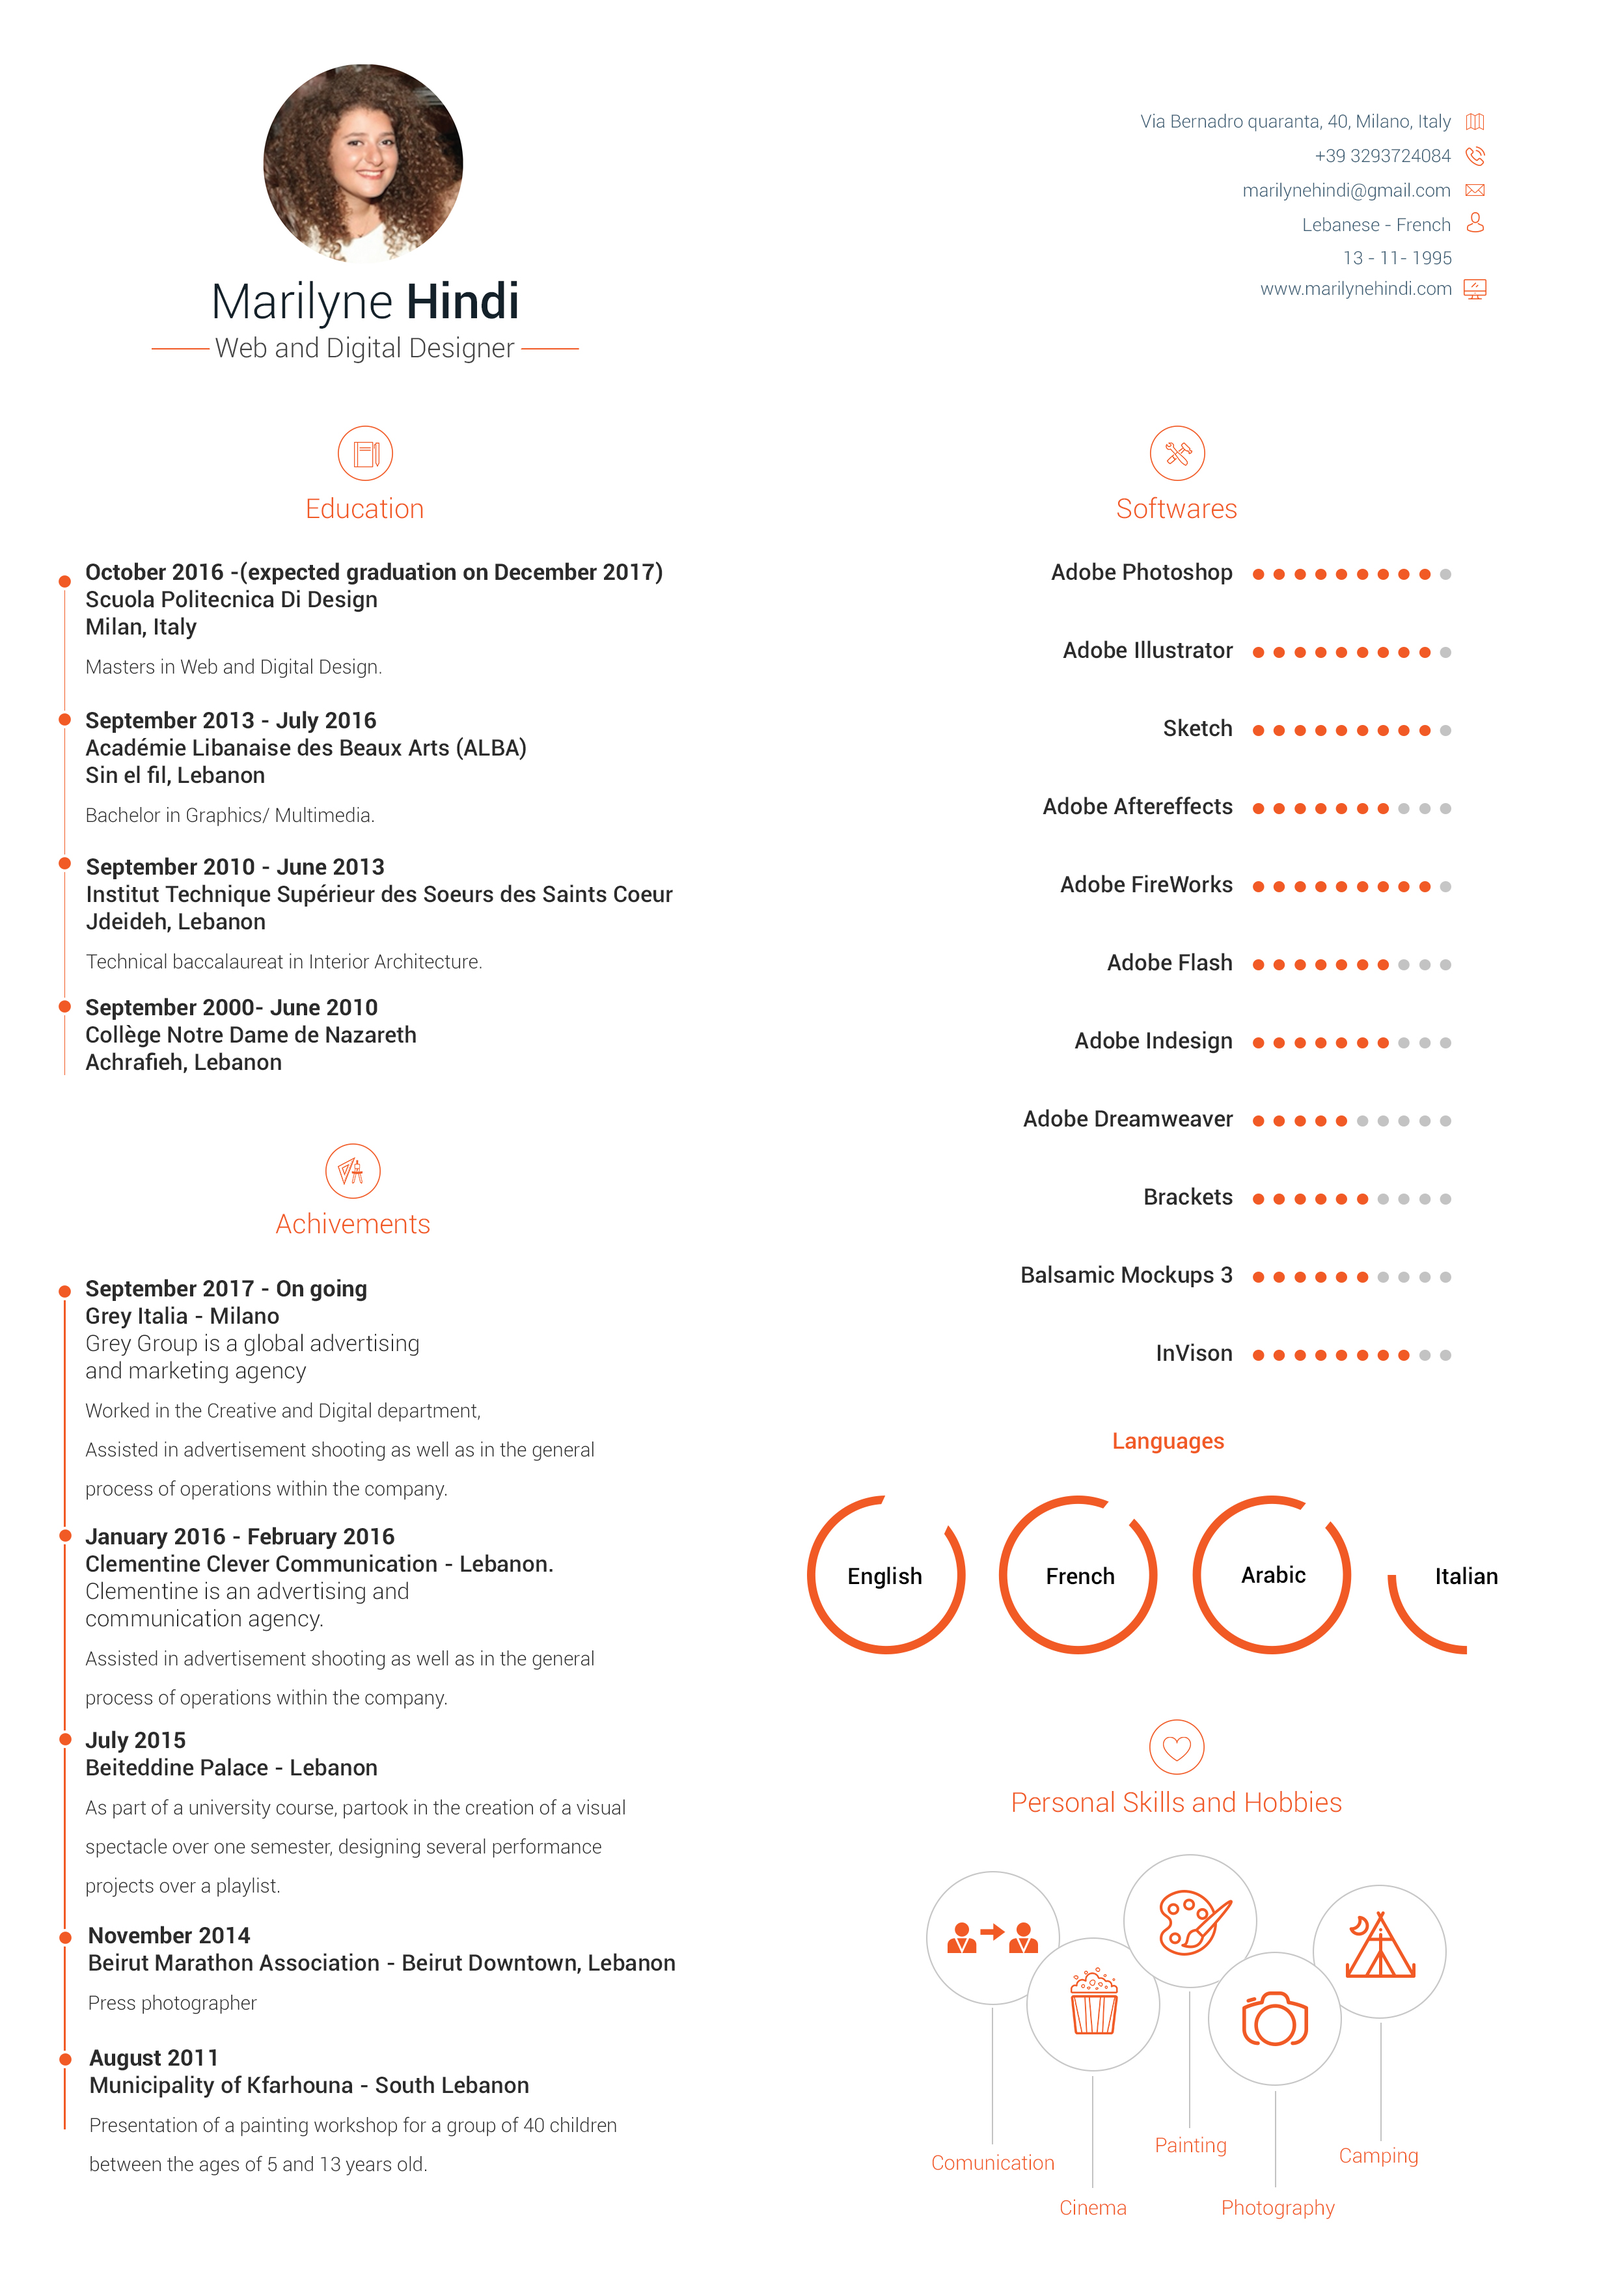
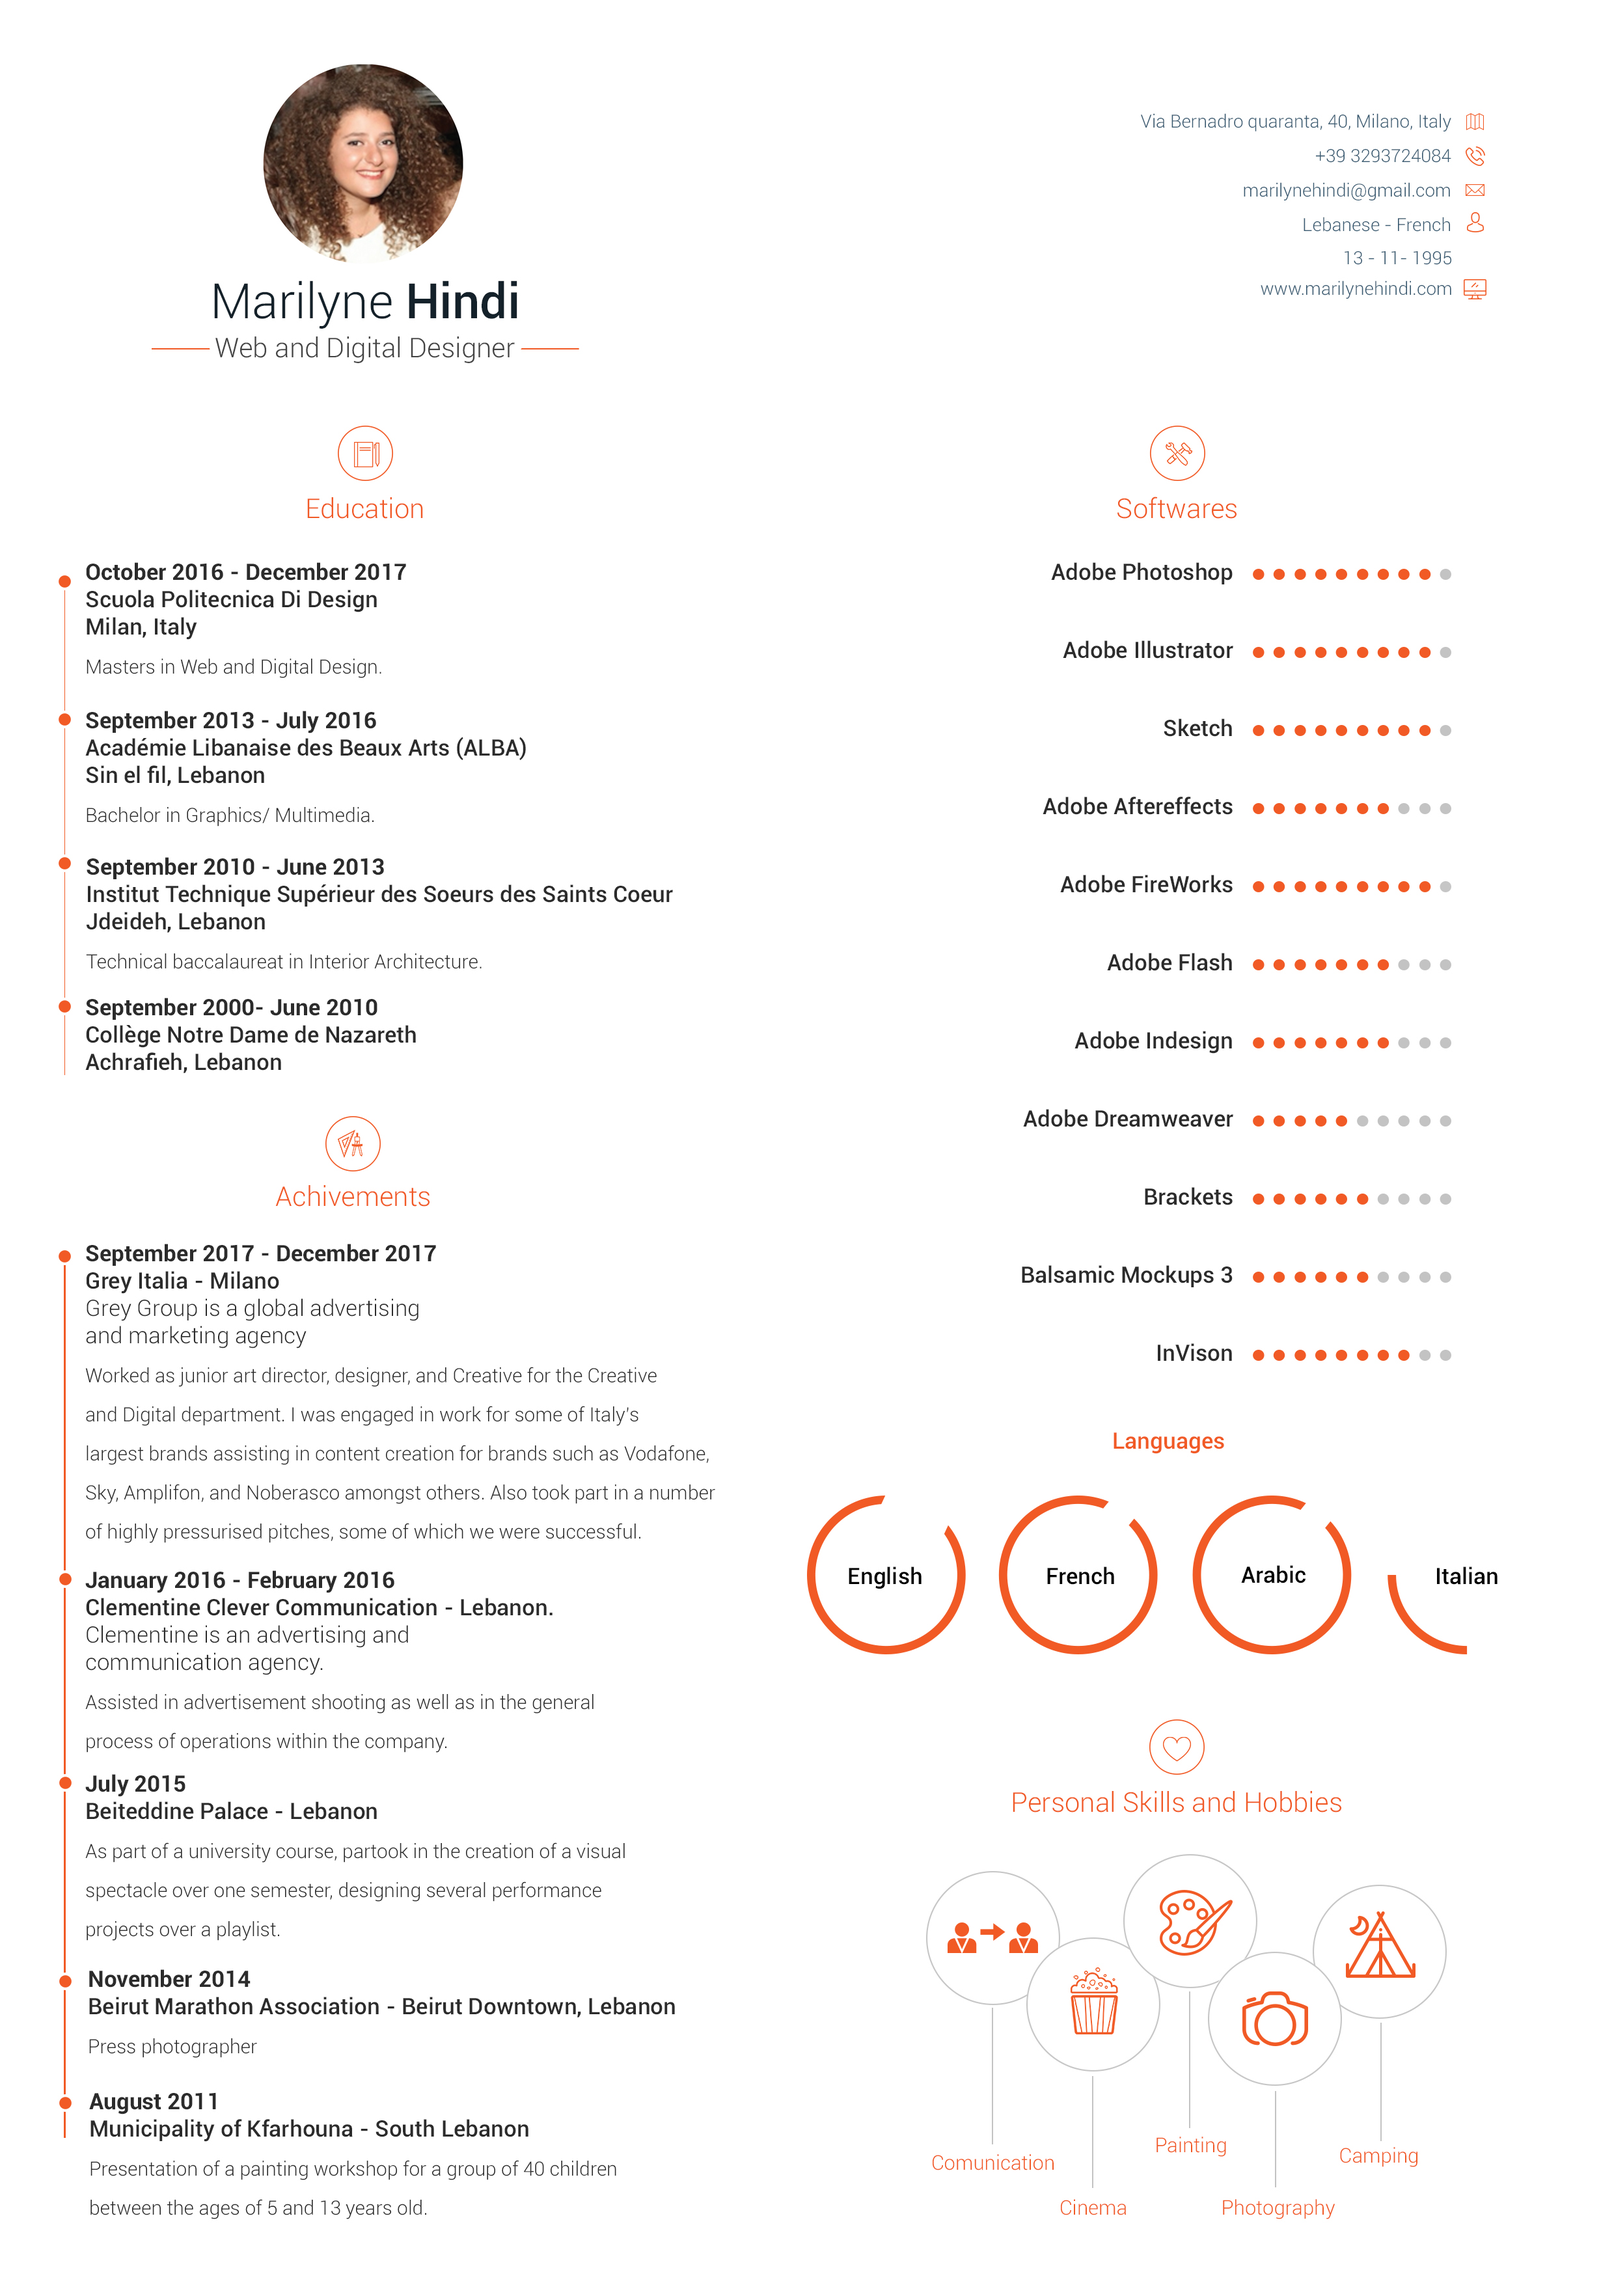
cv and about me update

diff --git a/about.html b/about.html
@@ -33,7 +33,7 @@
 
   Lebanese French, Born and raised in Lebanon. I did my bachelor degree in Graphics and Multimedia design  at Académie Libanaise Des Beaux-Arts, Beirut, Lebanon, and graduated in 2016.
 
-  Now I'm living in Milano, currently working towards gaining my masters in Web And Digital Design from Scuola Politecnica Di Design, SPD.
+  Now I'm living in Milano, recently graduated from Scuola Politecnica Di Design SPD, with a master in Web And Digital Design.
 
   </p>
   
